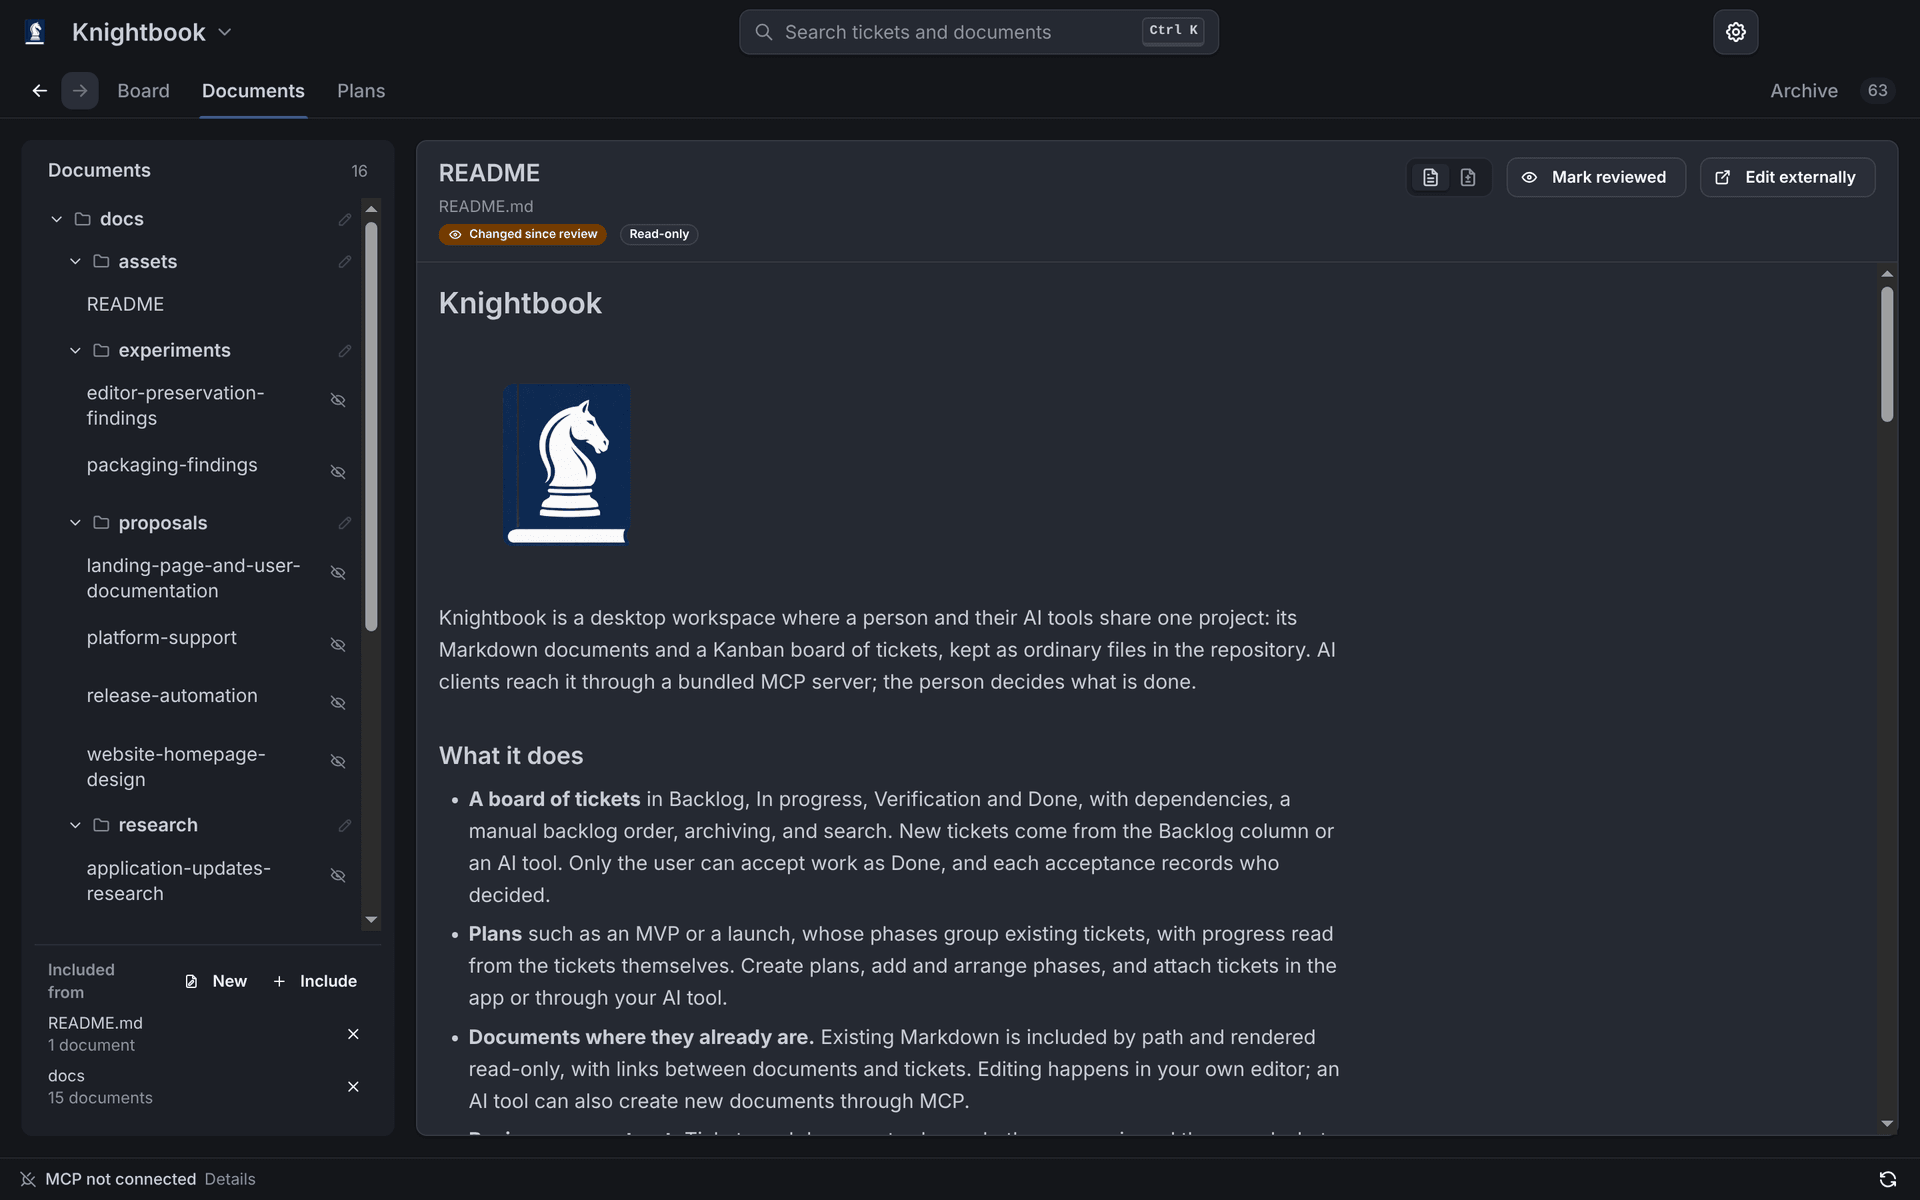
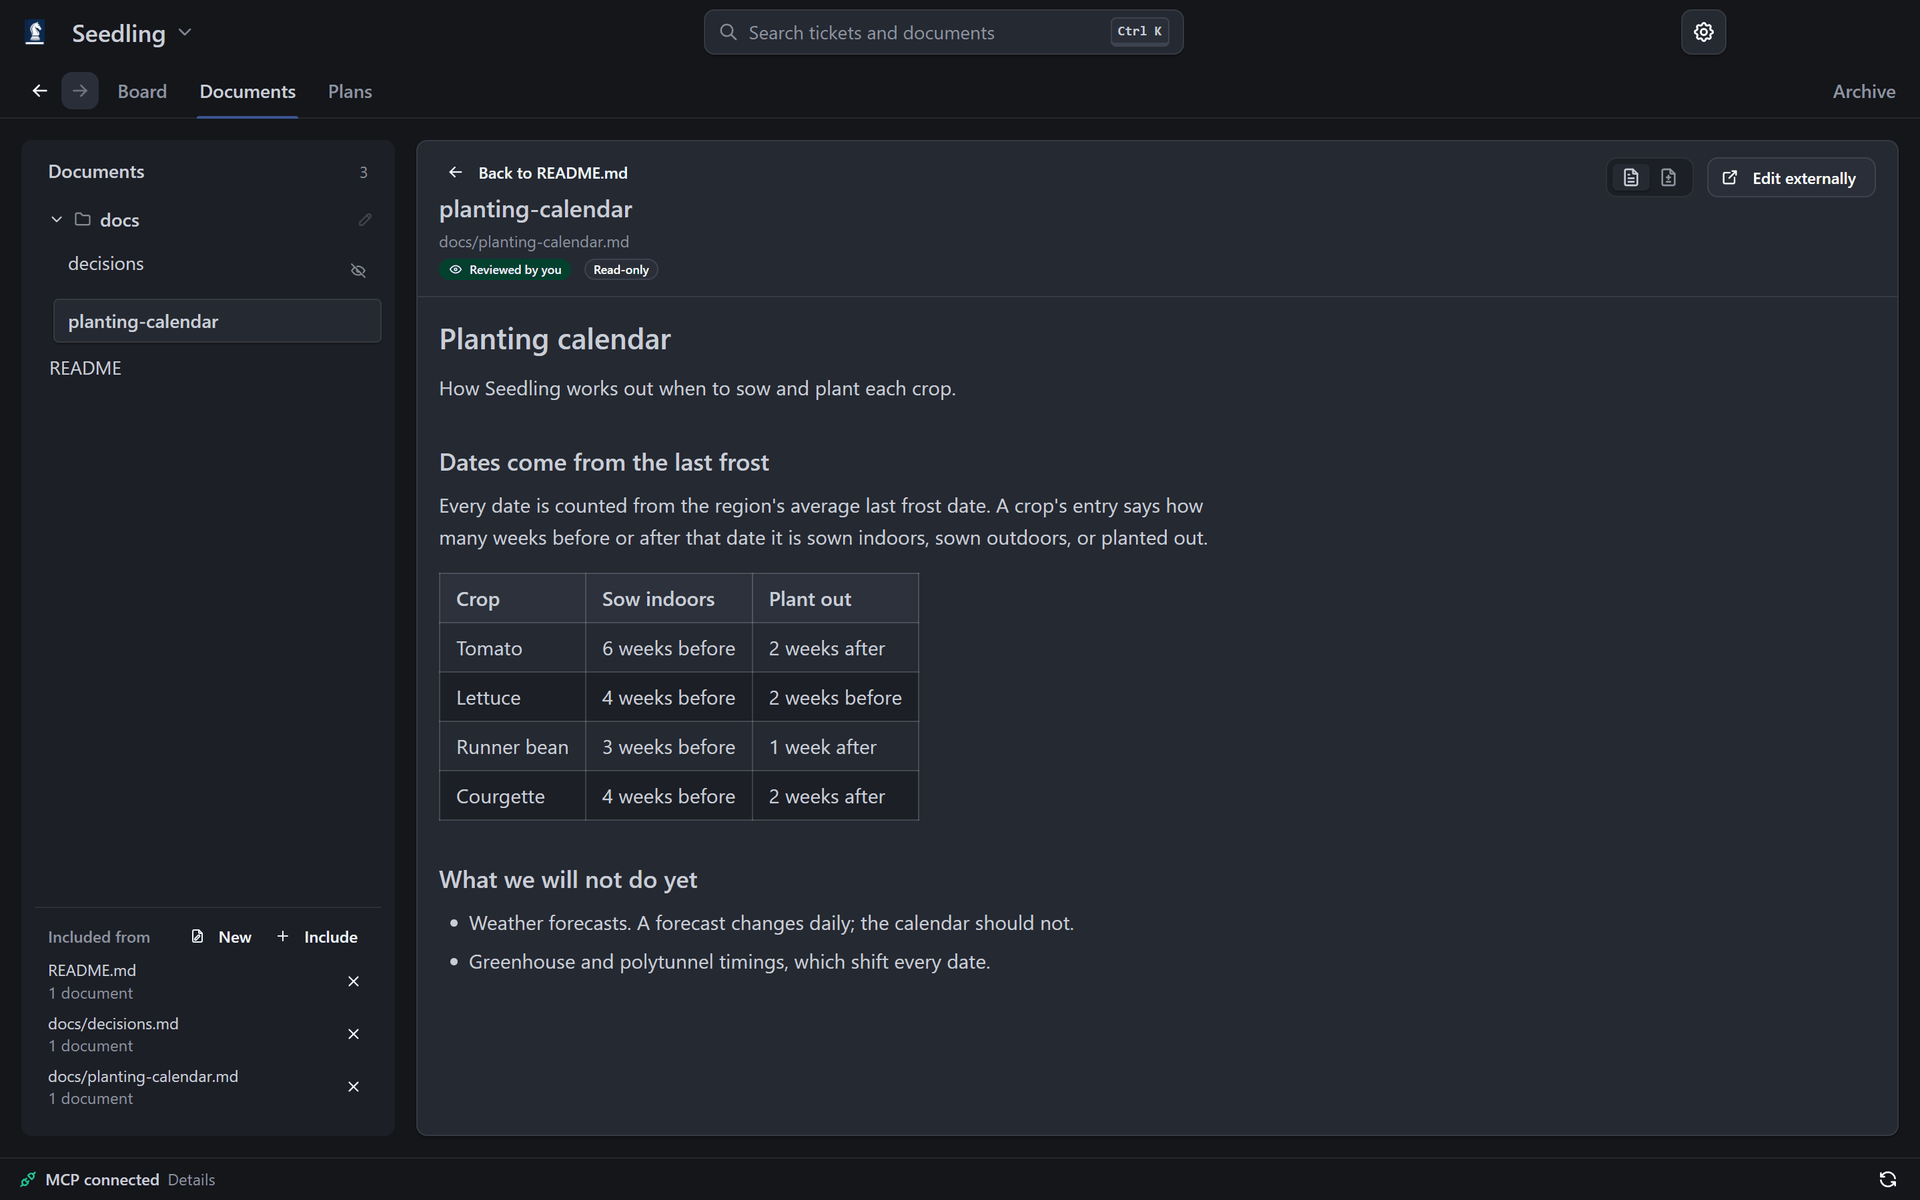
docs: replace homepage screenshots with the Seedling sample project
Capture the board and Documents views, light and dark, from the installed
v0.2.0 release with the fictional Seedling project open and an MCP client
connected, and drop the two screenshot drafts (ticket 90c7aba5).

diff --git a/apps/website/src/home/home.test.ts b/apps/website/src/home/home.test.ts
@@ -175,7 +175,7 @@ describe('the homepage', () => {
     const files = visibleText(section(homes.noRelease, 'files-title'))
     expect(files).toMatch(/ordinary Markdown files in your project folder/)
     expect(files).toMatch(/edit it in the editor you already use/)
-    expect(section(homes.noRelease, 'files-title')).toContain('data-draft="documentScreenshot"')
+    expect(section(homes.noRelease, 'files-title')).not.toContain('data-draft=')
     expect(section(homes.noRelease, 'files-title')).toMatch(/<img[^>]+alt="The Documents view/)
     const shared = visibleText(section(homes.noRelease, 'shared-title'))
     expect(shared).toMatch(/context the last one left behind/)

diff --git a/apps/website/src/home/drafts.ts b/apps/website/src/home/drafts.ts
@@ -8,10 +8,6 @@
  * published as if it were the product. Remove an entry once its place is real.
  */
 export const DRAFTS = {
-  boardScreenshot:
-    "Interim board screenshot of Knightbook's own project; replace with a fictional sample project (ticket 90c7aba5)",
-  documentScreenshot:
-    "Interim document screenshot of Knightbook's own project; replace with a fictional sample project (ticket 90c7aba5)",
   faqWindowClosed:
     'Whether the AI tool works with the window closed, confirmed on a clean install (ticket ebc80cc9)',
   faqSupport:
